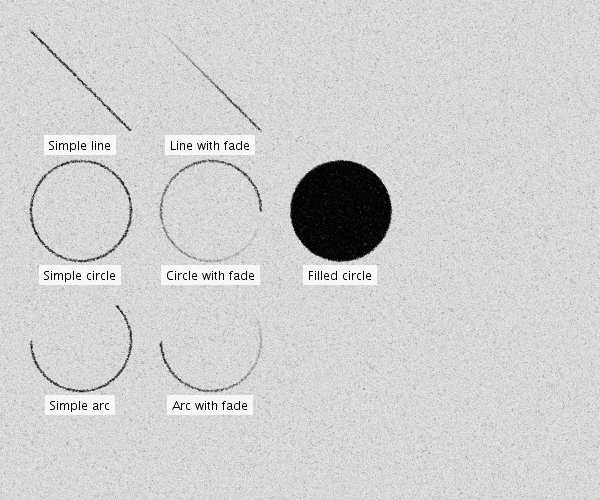
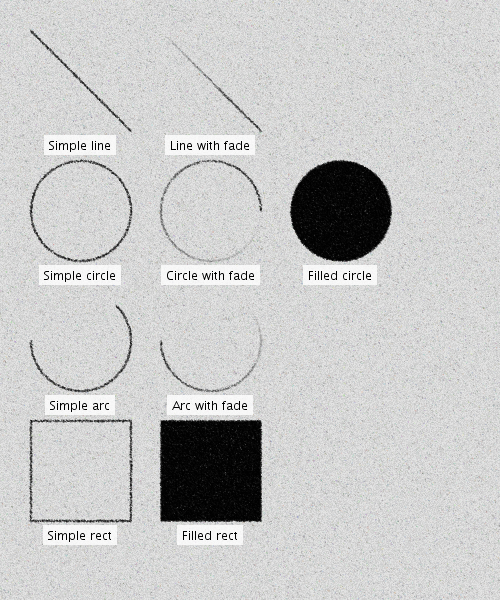
Add rectangle drawing methods and update example

diff --git a/src/paperandpencil/PaperAndPencil.java b/src/paperandpencil/PaperAndPencil.java
@@ -150,6 +150,33 @@ public class PaperAndPencil {
     }
 
     /**
+     * Draws a rectangle with a pencil-like effect.
+     * 
+     * @param leftX x-coordinate of the rectangle's top-left corner
+     * @param topY y-coordinate of the rectangle's top-left corner
+     * @param width width of the rectangle
+     * @param height height of the rectangle
+     */
+    public void rect(float leftX, float topY, float width, float height) {
+        line(leftX, topY, leftX+width, topY, false);
+        line(leftX, topY, leftX, topY+height, false);
+        line(leftX+width, topY, leftX+width, topY+height, false);
+        line(leftX, topY+height, leftX+width, topY+height, false);
+    }
+
+    public void fillRect(float leftX, float topY, float width, float height) {
+        float increment = 4f;//printMode ? 1.3f : 1.2f;
+        float centerX = leftX + (width / 2);
+        float centerY = topY + (height / 2);
+        // draw some bigger and bigger rectangles until the whole area is filled
+        for (float size = 2; size < Math.max(width, height); size += increment) {
+            float rectWidth = Math.min(size, width);
+            float rectHeight = Math.min(size, height);
+            rect(centerX - (rectWidth / 2), centerY - (rectHeight / 2), rectWidth, rectHeight);
+        }
+    }
+
+    /**
      * Fills a circle with concentric pencil circles to create a filled effect.
      * The spacing between circles is adjusted based on print mode.
      * 
